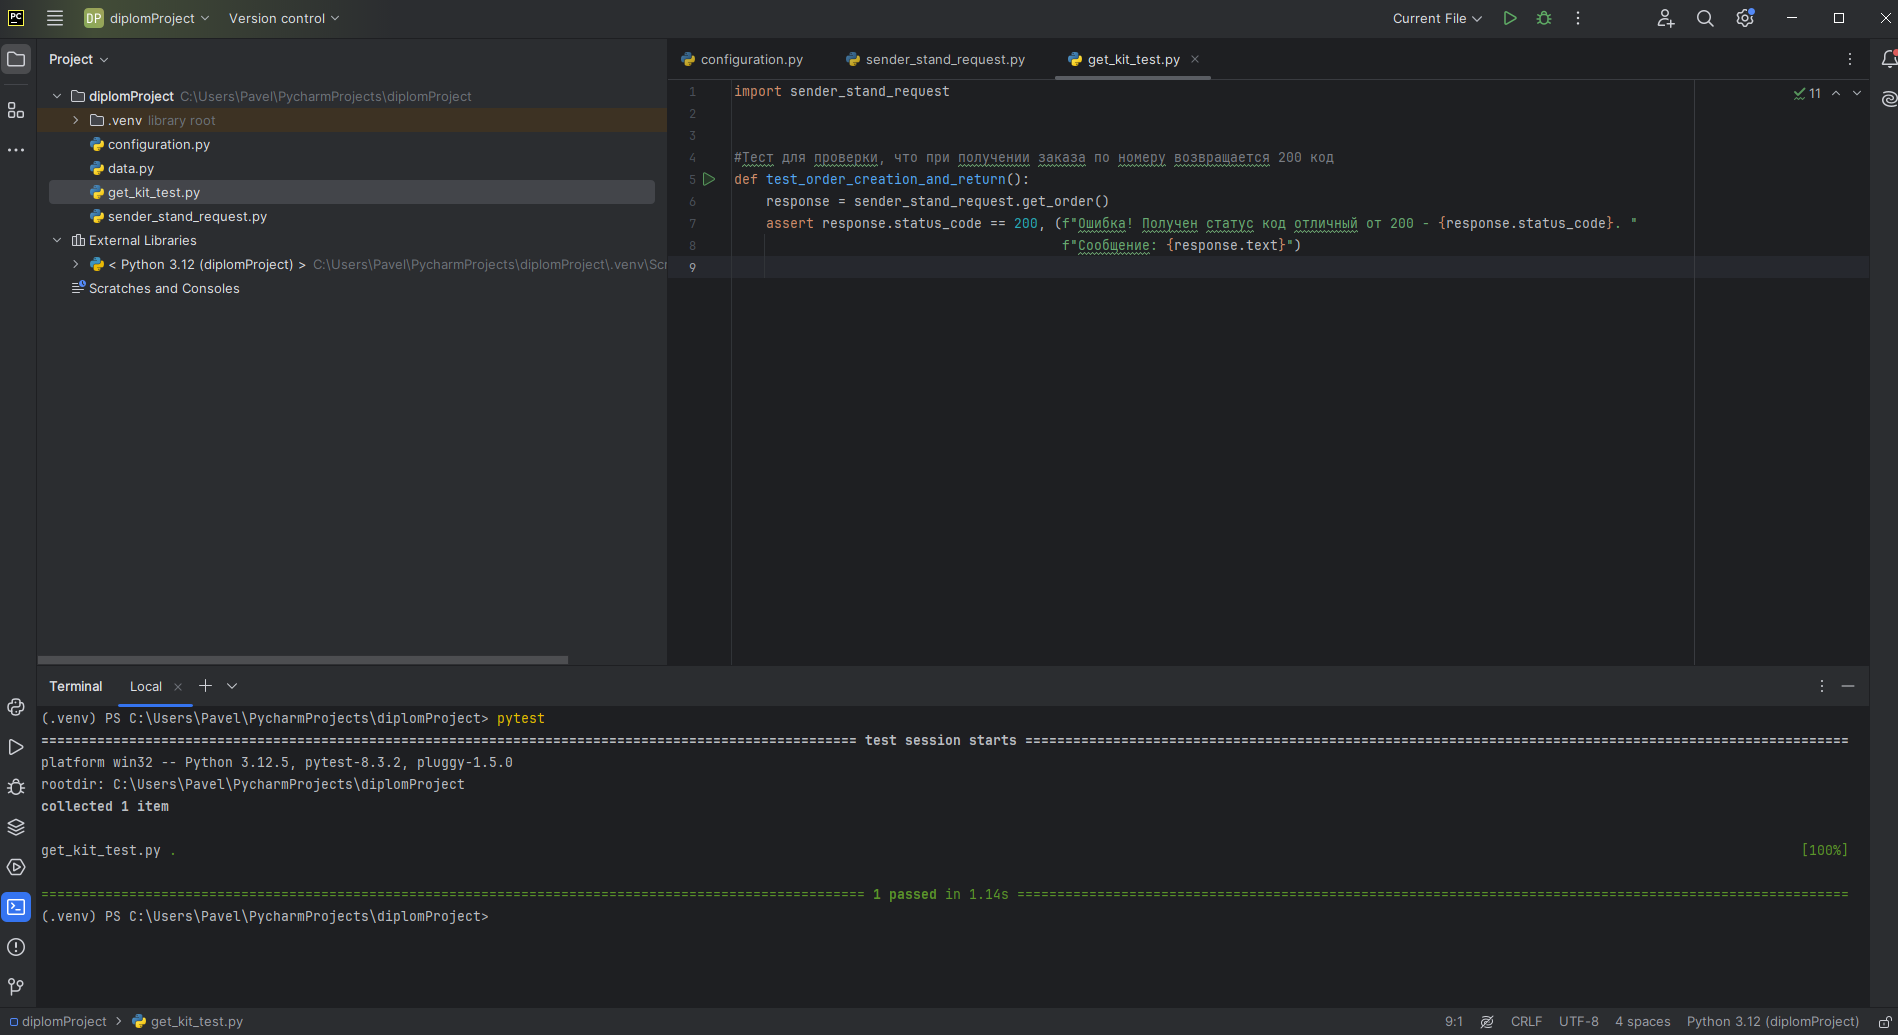
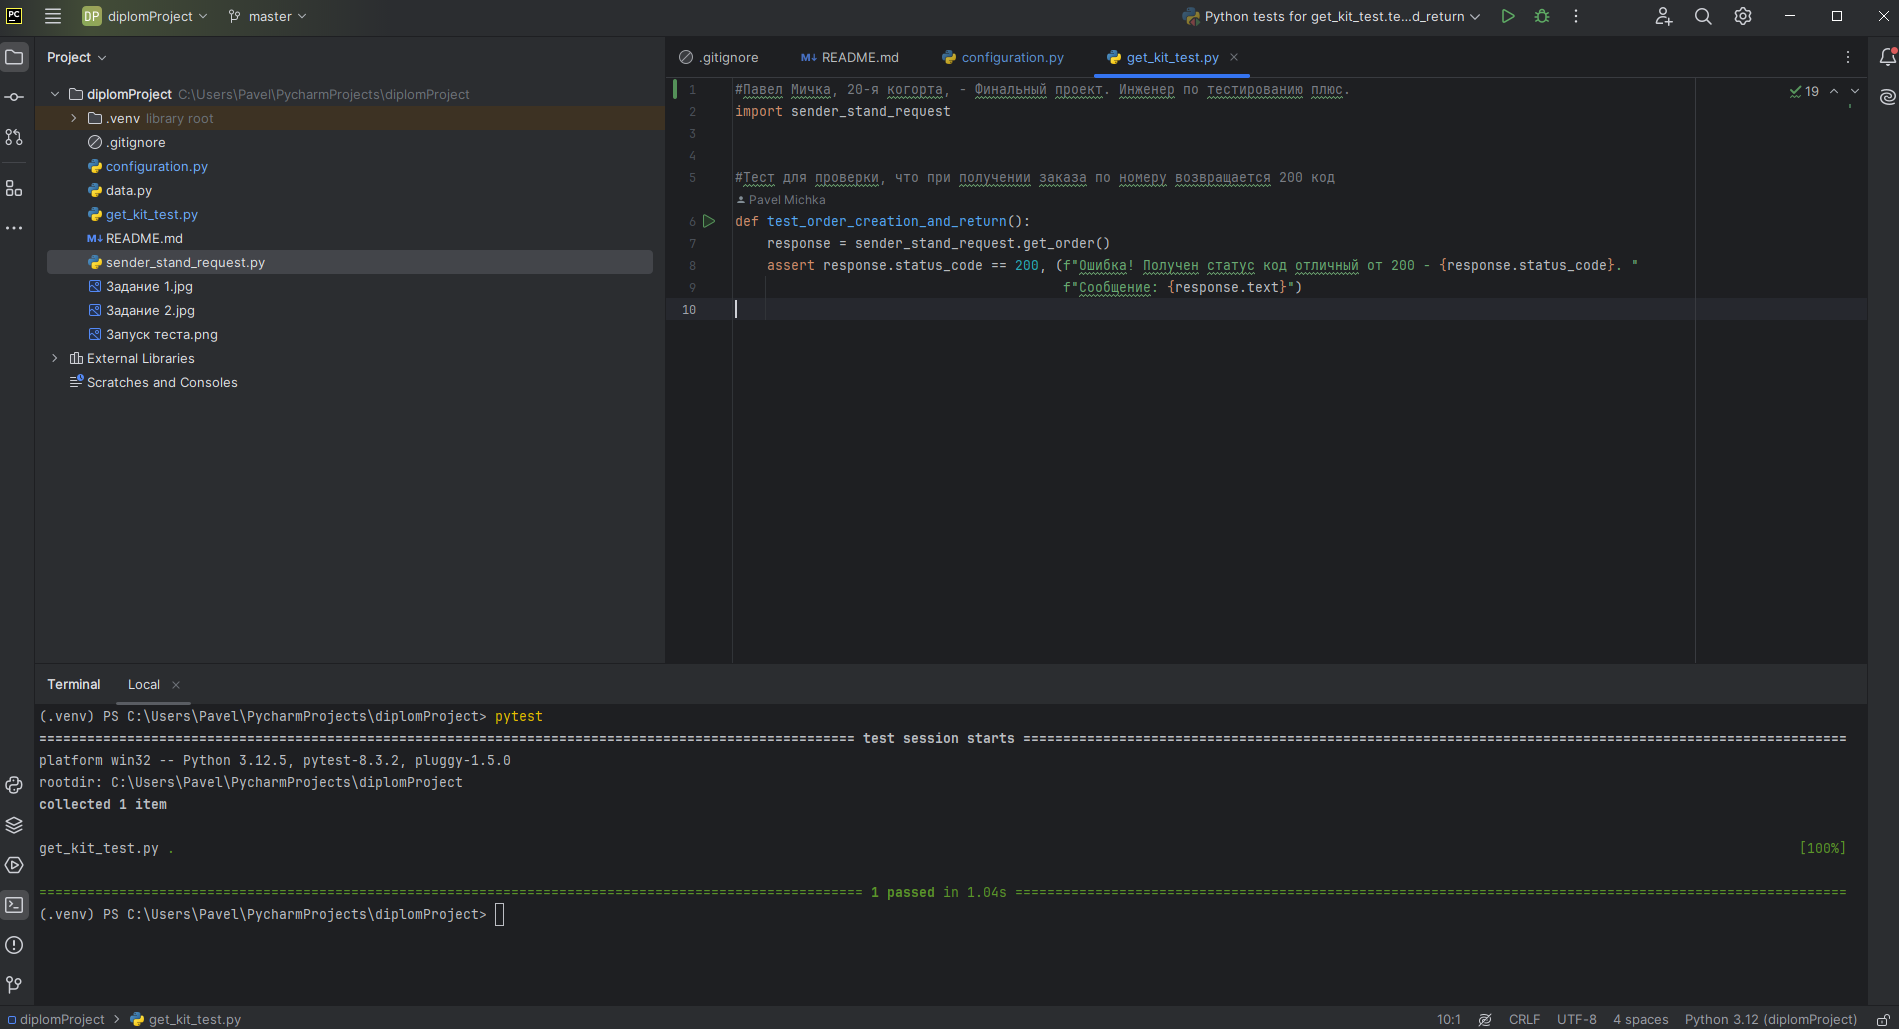
разрешены конфликты

diff --git a/configuration.py b/configuration.py
@@ -1,5 +1,5 @@
 #Базовый URL сервиса, который используется для доступа к API
-URL_SERVICE = "https://82137c86-39b0-48bb-989f-18401b78180f.serverhub.praktikum-services.ru/"
+URL_SERVICE = "https://af965aaa-c466-4a6b-8e30-184a8bda240d.serverhub.praktikum-services.ru/"
 #Путь до метода с созданием заказа
 CREATE_ORDER_PATH = "/api/v1/orders"
 #Путь до метода с получением заказа по номеру

diff --git a/get_kit_test.py b/get_kit_test.py
@@ -1,3 +1,4 @@
+#Павел Мичка, 20-я когорта, - Финальный проект. Инженер по тестированию плюс.
 import sender_stand_request
 
 

diff --git a/README.md b/README.md
@@ -1,4 +1,5 @@
-# **Практический блок: вторая часть**
+Павел Мичка, 20-я когорта, - Финальный проект. Инженер по тестированию плюс.
+# **Практический блок: вторая часть**
 # Работа с базой данных
 - **Задание №1:** 
 
